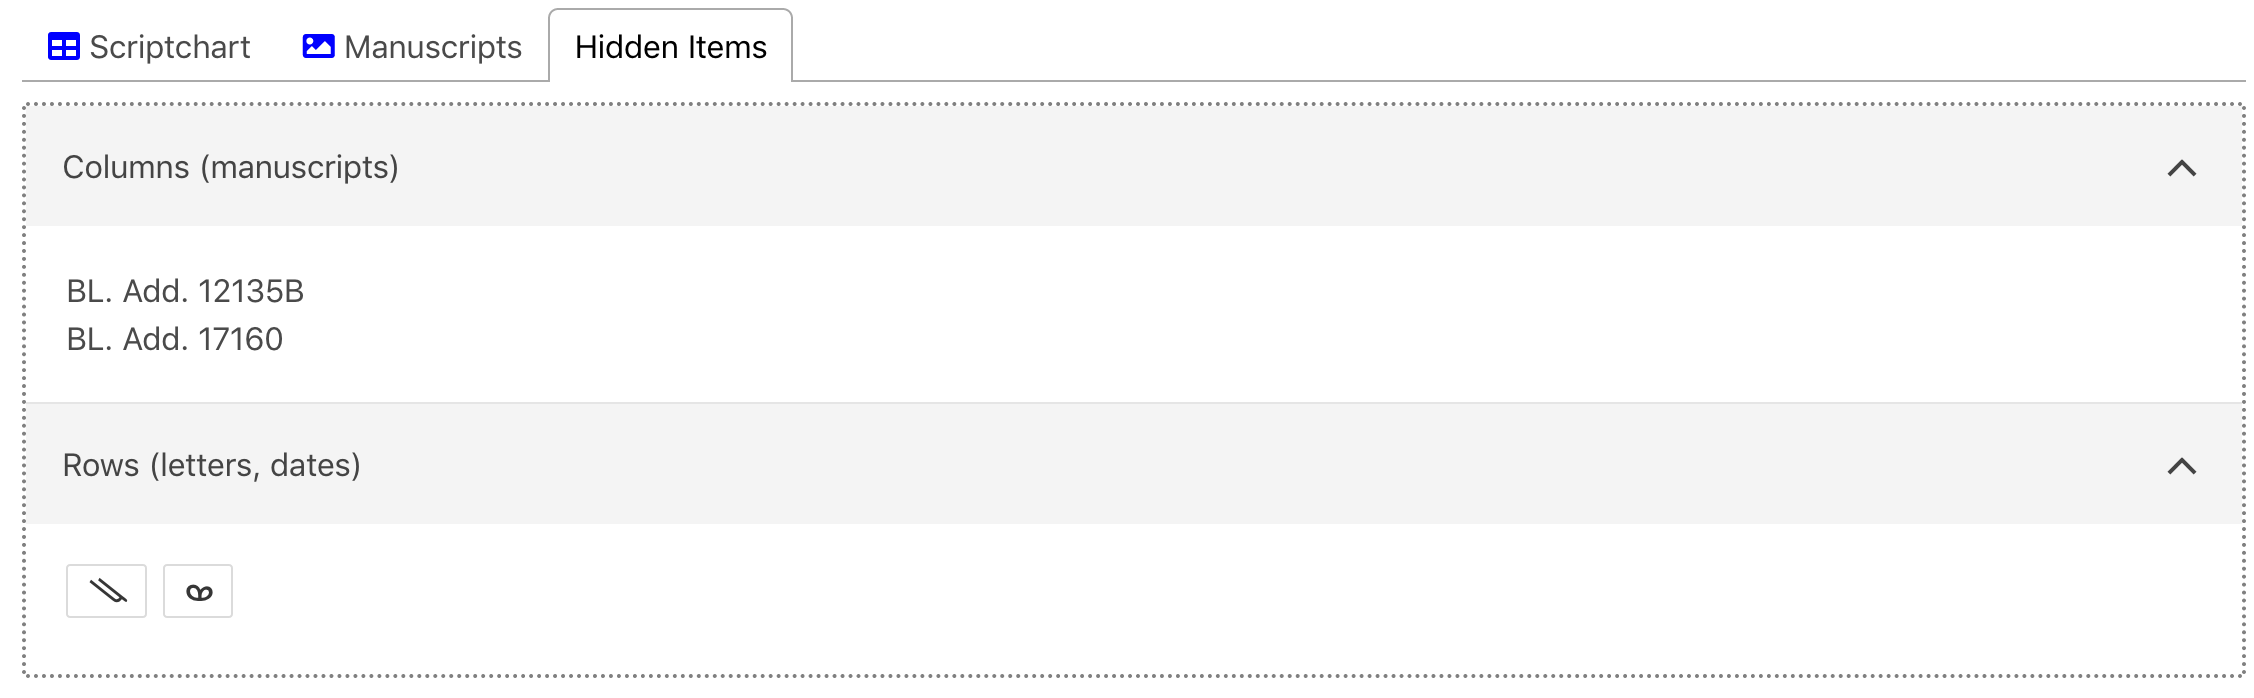
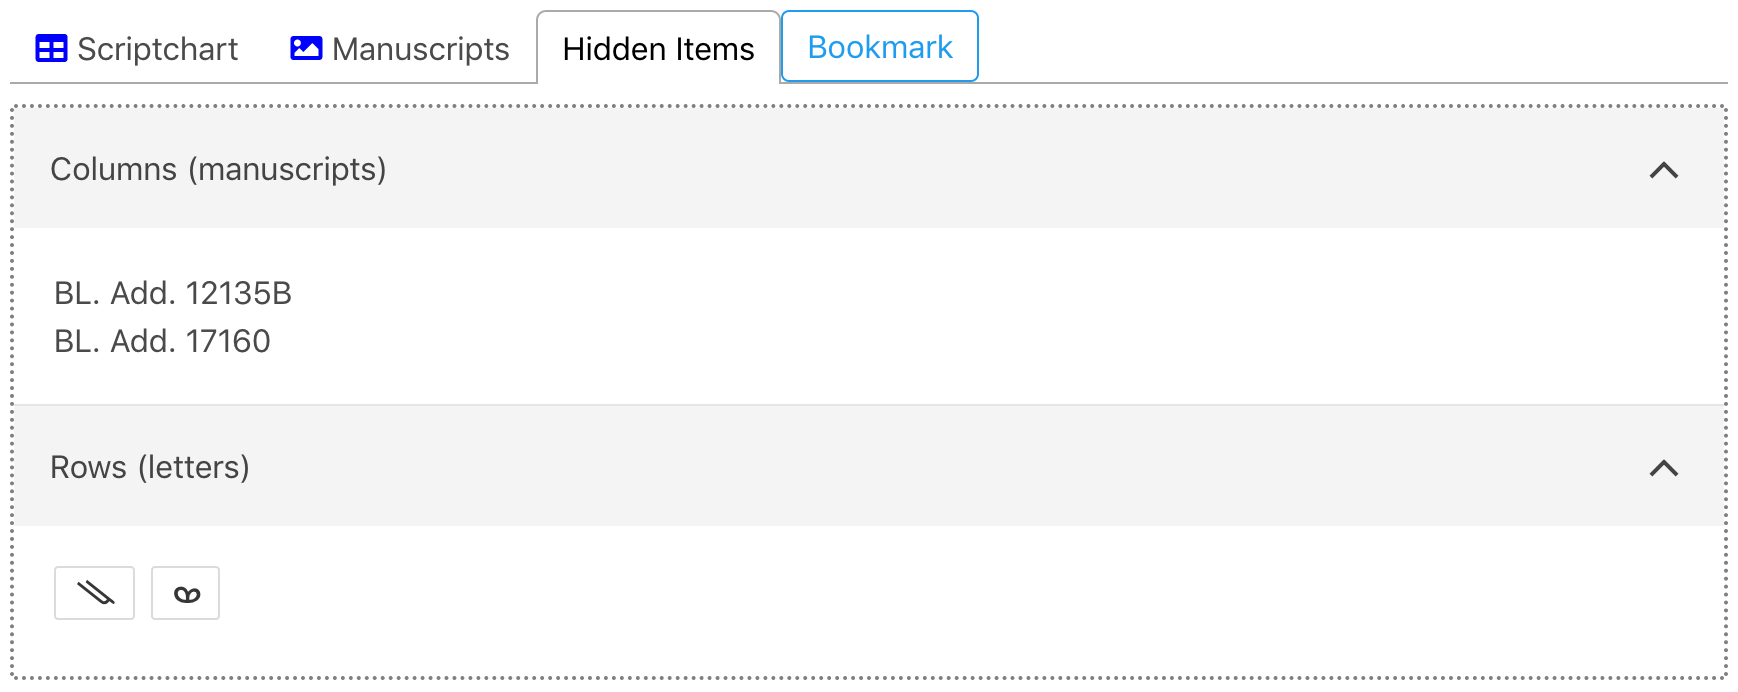
Update hidden letters heading and howto image

diff --git a/js/components/ChartAccordion.js b/js/components/ChartAccordion.js
@@ -59,7 +59,7 @@ class ChartAccordion extends React.Component {
         <AccordionItem expanded={this.props.hiddenLetters.length > 0}>
           <AccordionItemTitle>
             <h4 className="u-position-relative">
-              Rows (letters, dates)
+              Rows (letters)
               <div className="accordion__arrow" role="presentation" />
             </h4>
           </AccordionItemTitle>
